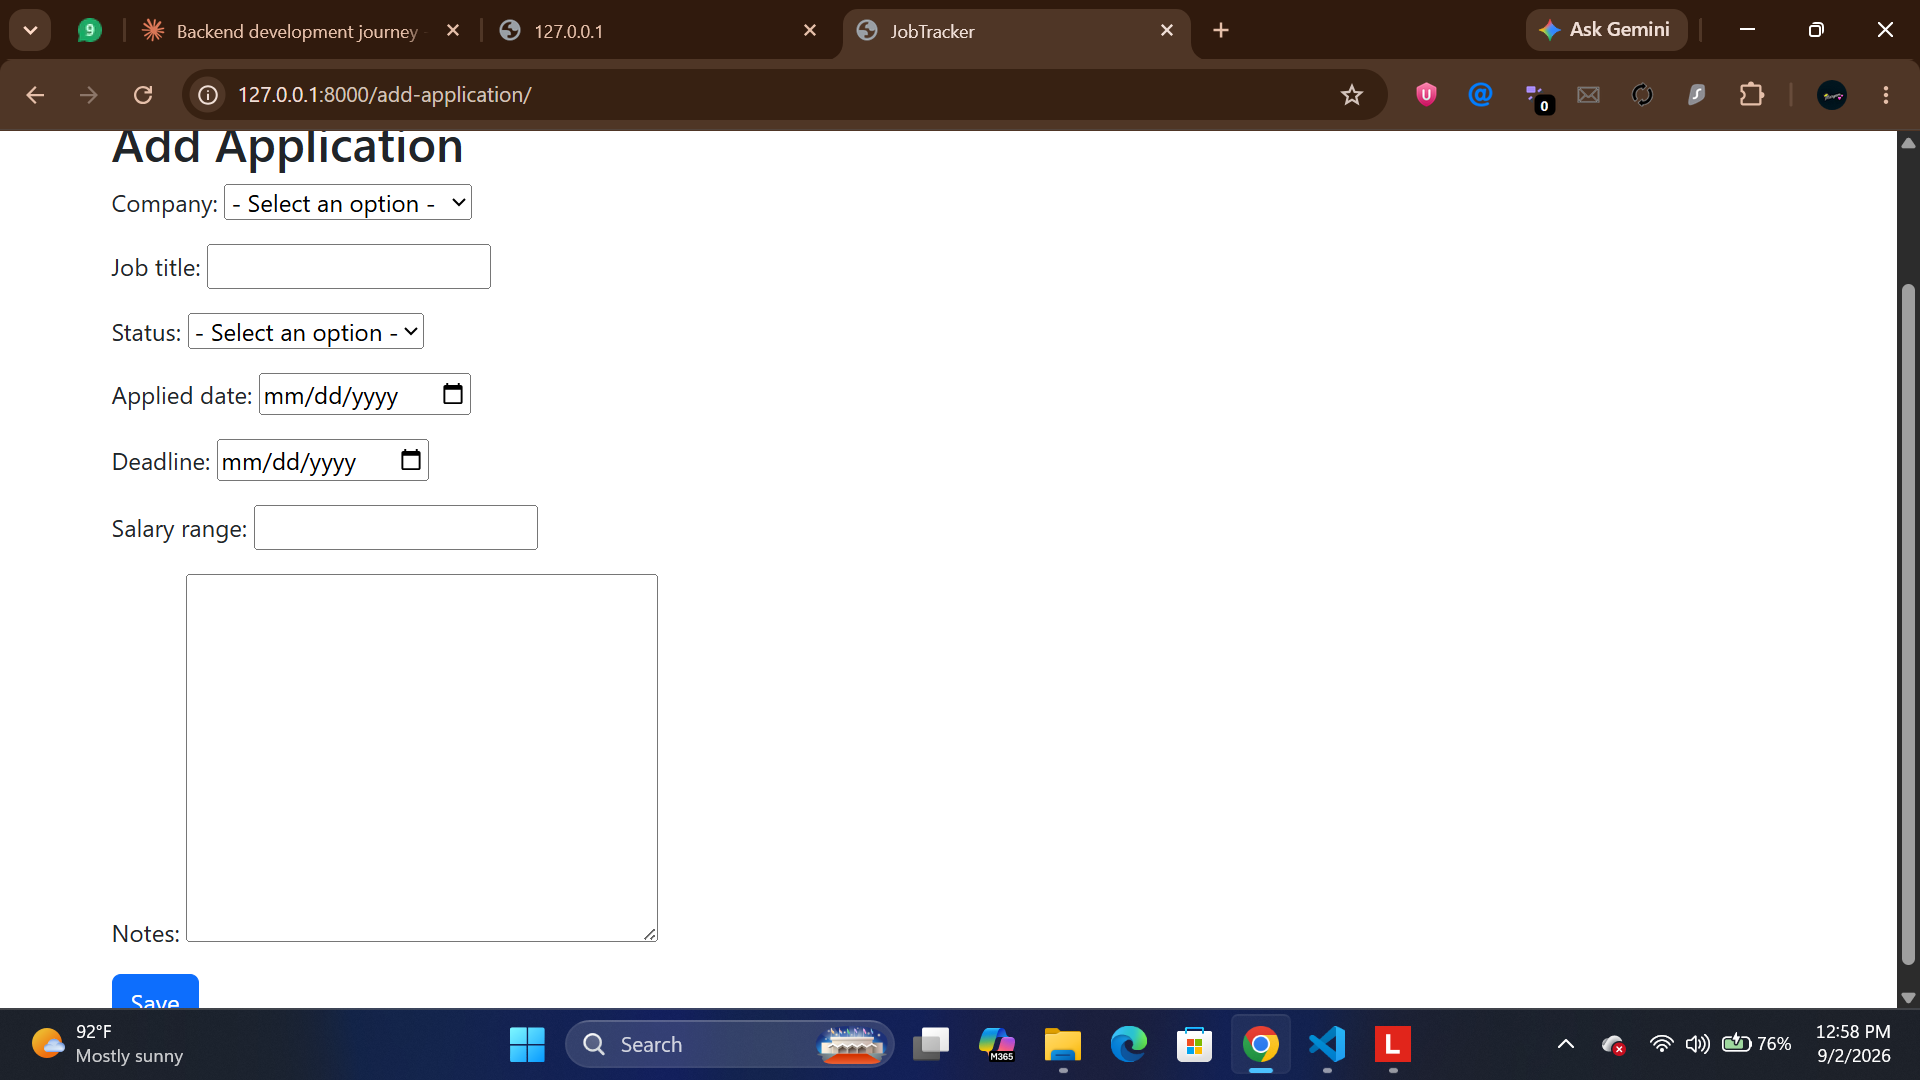
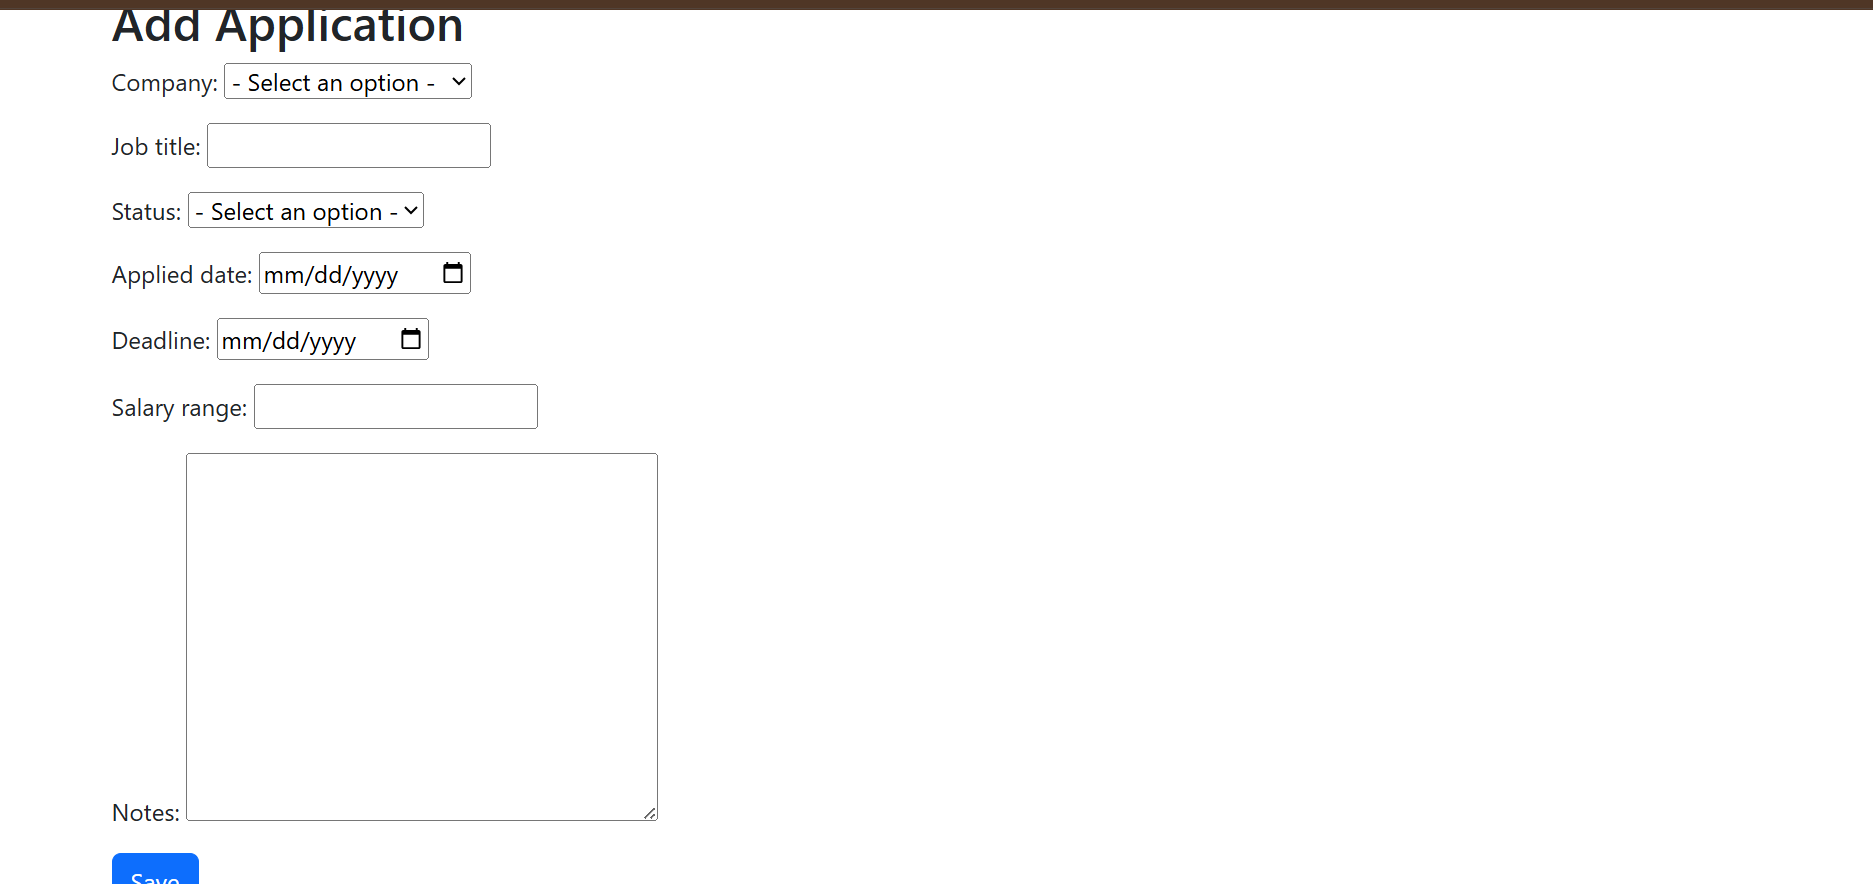
add changes

Changed region(s): [[0.0, 0.0, 1.0, 1.0]]

diff --git a/README.md b/README.md
@@ -39,16 +39,16 @@ JobTracker is a Django REST Framework based backend application for tracking job
 ## Screenshots
 
 ### Login Page
-![Login Page](screenshots/login page.png)
+![Login Page](screenshots/login.png)
 
 ### Applications List
-![Applications List](screenshots/application page.png)
+![Applications List](screenshots/applications.png)
 
 ### Dashboard
 ![Dashboard](screenshots/dashboard.png)
 
 ### Interview Rounds
-![Interview Rounds](screenshots/interview-round page.png)
+![Interview Rounds](screenshots/interviewrounds.png)
 
 ## Setup Instructions
 
